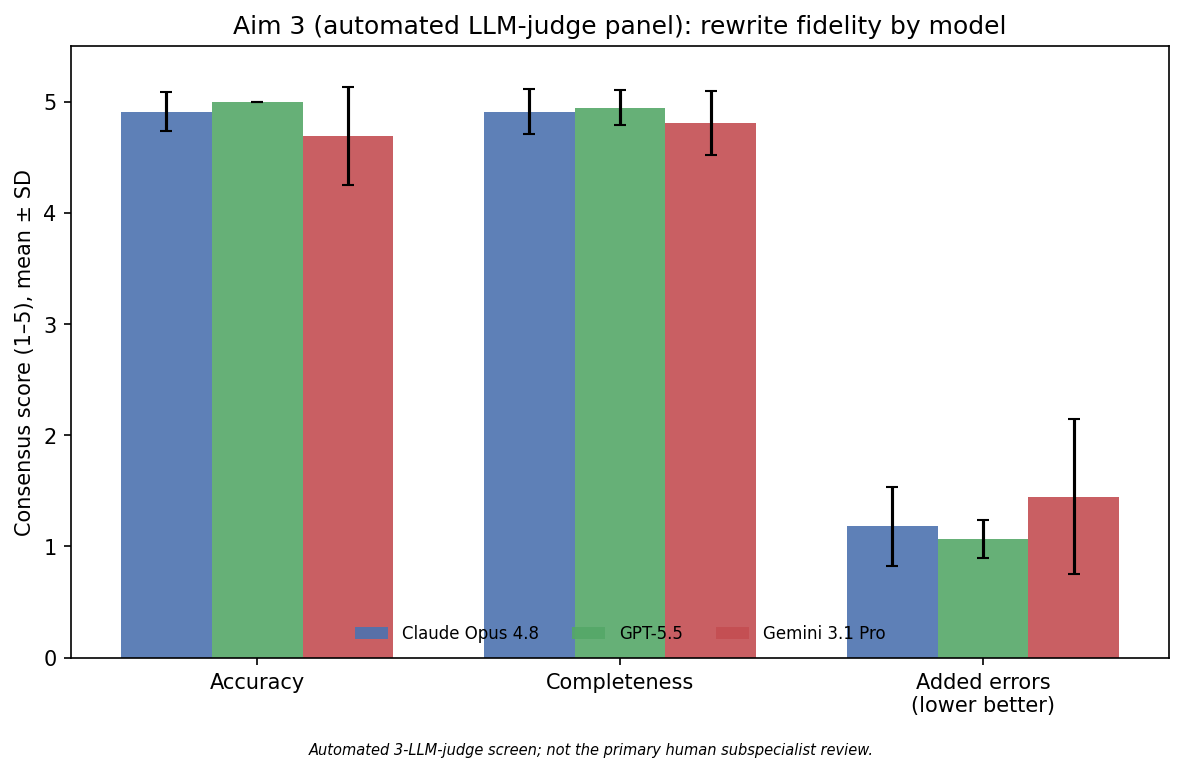
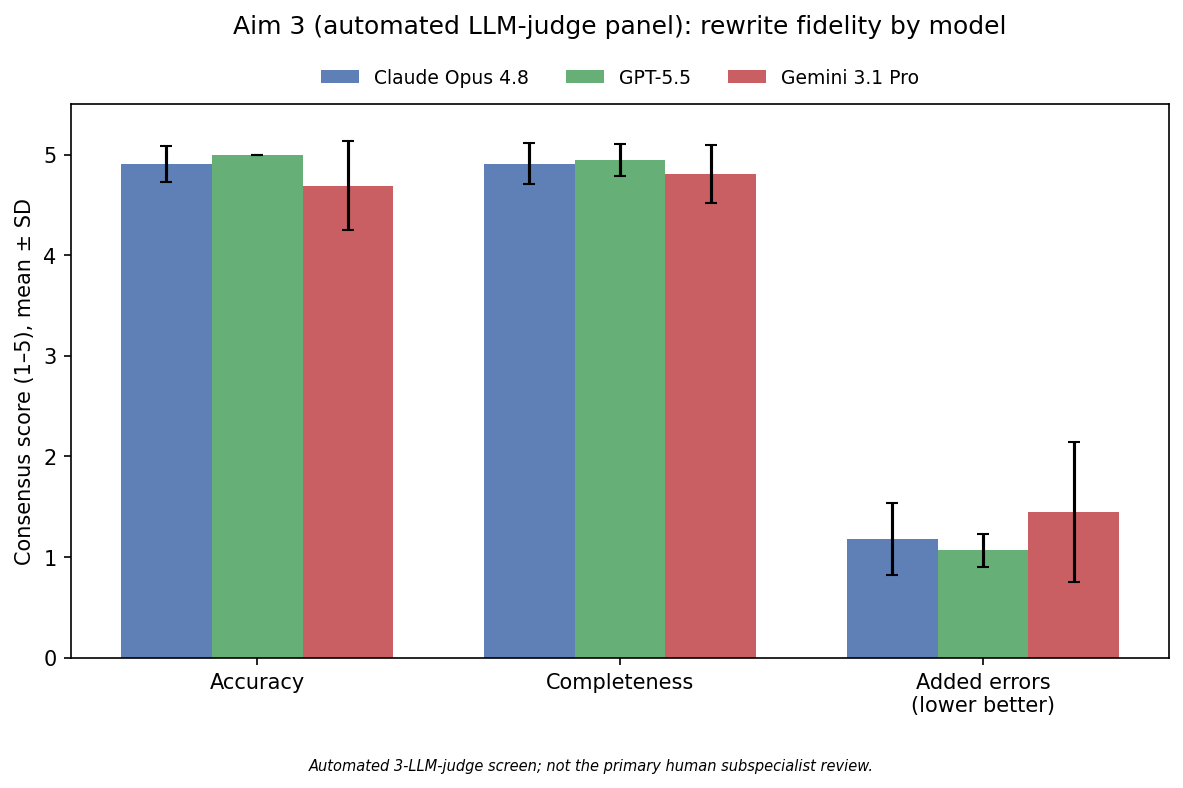
Aim 3 figures: fix legend overlap, add dual-axis trade-off plot
Move the by-model bar-chart legend above the plot area (it previously
sat over the Added-errors bars). Add aim3_llm_tradeoff_alt.png, a
dual-axis per-model summary (bars = reading-level reduction, diamonds =
consensus accuracy) that shows the readability-accuracy trade-off
directly. Reference the new figure in the automated-accuracy assessment.

diff --git a/scripts/11_aim3_llm_figures.py b/scripts/11_aim3_llm_figures.py
@@ -3,7 +3,8 @@
 
 Writes:
   reports/figures/aim3_llm_scores_by_model.png   grouped bars, 3 dimensions x 3 models
-  reports/figures/aim3_llm_tradeoff.png          reading-level reduction vs consensus accuracy
+  reports/figures/aim3_llm_tradeoff.png          reading-level reduction vs consensus accuracy (scatter)
+  reports/figures/aim3_llm_tradeoff_alt.png      same trade-off as a paired dual-axis summary
 """
 from __future__ import annotations
 
@@ -46,9 +47,11 @@ def main() -> int:
     ax.set_xticklabels([lab for _, lab in dims])
     ax.set_ylabel("Consensus score (1–5), mean ± SD")
     ax.set_ylim(0, 5.5)
-    ax.set_title("Aim 3 (automated LLM-judge panel): rewrite fidelity by model")
-    ax.legend(loc="lower center", ncol=3, frameon=False, fontsize=8)
-    ax.figure.text(0.5, -0.02, "Automated 3-LLM-judge screen; not the primary human subspecialist review.",
+    ax.set_title("Aim 3 (automated LLM-judge panel): rewrite fidelity by model", pad=34)
+    # Legend above the plot so it never sits over the bars.
+    ax.legend(loc="lower center", bbox_to_anchor=(0.5, 1.0), ncol=3,
+              frameon=False, fontsize=9)
+    ax.figure.text(0.5, -0.04, "Automated 3-LLM-judge screen; not the primary human subspecialist review.",
                    ha="center", fontsize=7, style="italic")
     fig.tight_layout()
     fig.savefig(FIGURES_DIR / "aim3_llm_scores_by_model.png", dpi=150, bbox_inches="tight")
@@ -78,7 +81,59 @@ def main() -> int:
     fig.savefig(FIGURES_DIR / "aim3_llm_tradeoff.png", dpi=150, bbox_inches="tight")
     plt.close(fig)
 
-    print("wrote reports/figures/aim3_llm_scores_by_model.png and aim3_llm_tradeoff.png")
+    # --- Figure C: same trade-off, different encoding ---------------------
+    # Paired dual-axis summary: per model, a bar for mean reading-level
+    # reduction (left axis) and a marker+line for mean consensus accuracy
+    # (right axis). Models are ordered by how aggressively they simplify, so
+    # the diverging readability-up / accuracy-down pattern reads at a glance.
+    summ = (d.groupby("model_id")
+              .agg(red_mean=("fkgl_reduction", "mean"),
+                   red_sd=("fkgl_reduction", "std"),
+                   acc_mean=("accuracy_1_5", "mean"),
+                   acc_sd=("accuracy_1_5", "std"))
+              .reindex(["openai", "claude", "gemini"]))  # least -> most simplified
+    order = list(summ.index)
+    xs = np.arange(len(order))
+
+    fig, ax1 = plt.subplots(figsize=(8, 5.5))
+    bars = ax1.bar(xs, summ["red_mean"], width=0.55,
+                   yerr=summ["red_sd"], capsize=4,
+                   color=[COLORS[m] for m in order], alpha=0.55,
+                   edgecolor="black", linewidth=0.6, zorder=2)
+    ax1.set_ylabel("Reading-level reduction\n(FKGL grade levels removed, mean ± SD)", fontsize=10)
+    ax1.set_ylim(0, 8)
+    ax1.set_xticks(xs)
+    ax1.set_xticklabels([LABELS[m] for m in order])
+    for b, v in zip(bars, summ["red_mean"]):
+        ax1.text(b.get_x() + b.get_width() / 2, 0.25, f"{v:.1f} grades",
+                 ha="center", va="bottom", fontsize=9, fontweight="bold",
+                 color="#222222")
+
+    ax2 = ax1.twinx()
+    ax2.errorbar(xs, summ["acc_mean"], yerr=summ["acc_sd"], color="black",
+                 marker="D", markersize=9, markerfacecolor="white",
+                 markeredgewidth=1.6, linewidth=1.8, capsize=4, zorder=5)
+    ax2.set_ylabel("Consensus accuracy (1–5), mean ± SD", fontsize=10)
+    ax2.set_ylim(4.0, 5.15)
+    for xi, v in zip(xs, summ["acc_mean"]):
+        ax2.annotate(f"{v:.2f}", (xi, v), textcoords="offset points",
+                     xytext=(10, 6), fontsize=9, fontweight="bold")
+
+    ax1.set_title("The readability–accuracy trade-off across models\n"
+                  "(bars: simplification achieved · diamonds: medical-accuracy fidelity)",
+                  fontsize=12)
+    ax1.set_axisbelow(True)
+    ax1.grid(axis="y", alpha=0.2)
+    fig.text(0.5, -0.03,
+             "More simplification (left→right) tracks lower accuracy fidelity. "
+             "Automated 3-LLM-judge screen; pending blinded subspecialist review.",
+             ha="center", fontsize=7, style="italic")
+    fig.tight_layout()
+    fig.savefig(FIGURES_DIR / "aim3_llm_tradeoff_alt.png", dpi=150, bbox_inches="tight")
+    plt.close(fig)
+
+    print("wrote reports/figures/aim3_llm_scores_by_model.png, "
+          "aim3_llm_tradeoff.png and aim3_llm_tradeoff_alt.png")
     return 0
 
 

diff --git a/docs/aim3_automated_accuracy_assessment.md b/docs/aim3_automated_accuracy_assessment.md
@@ -19,7 +19,7 @@ Consensus scores (mean across the 3 judges), per model:
 | Claude Opus 4.8 | −5.52 | 4.91 | 4.91 | 1.18 |
 | Gemini 3.1 Pro | −5.74 (largest) | 4.69 | 4.81 | 1.45 (worst) |
 
-The ordering is the **inverse** of the Aim 2 reading-level ordering: the model that simplified most aggressively (Gemini) scored lowest on accuracy and added the most un-sourced content, while the most conservative simplifier (GPT-5.5) was the most faithful. **Claude Opus 4.8 sits at the favorable corner** — a near-largest reading-level reduction with fidelity essentially tied with the most conservative model. Across-model differences were significant for accuracy (Friedman χ² = 21.1, p = 2.6 × 10⁻⁵; n = 25 pages with all three rewrites) and non-significant for completeness (χ² = 5.57, p = .062) and added errors (χ² = 5.02, p = .081). See `reports/figures/aim3_llm_tradeoff.png` and `aim3_llm_scores_by_model.png`.
+The ordering is the **inverse** of the Aim 2 reading-level ordering: the model that simplified most aggressively (Gemini) scored lowest on accuracy and added the most un-sourced content, while the most conservative simplifier (GPT-5.5) was the most faithful. **Claude Opus 4.8 sits at the favorable corner** — a near-largest reading-level reduction with fidelity essentially tied with the most conservative model. Across-model differences were significant for accuracy (Friedman χ² = 21.1, p = 2.6 × 10⁻⁵; n = 25 pages with all three rewrites) and non-significant for completeness (χ² = 5.57, p = .062) and added errors (χ² = 5.02, p = .081). See `reports/figures/aim3_llm_tradeoff.png` (per-page scatter), `aim3_llm_tradeoff_alt.png` (dual-axis model-level summary: bars = simplification achieved, diamonds = accuracy fidelity), and `aim3_llm_scores_by_model.png`.
 
 ## 3. Most rewrites were faithful (ceiling effect)
 
@@ -74,4 +74,4 @@ Per-model Spearman between the magnitude of reading-level reduction (ΔFKGL) and
 - `data/scores/accuracy_llm_raw.csv` — 231 rows (page × model × judge), scores + notes + flagged claims.
 - `data/scores/accuracy_llm.csv` — 77 consensus rows (mean across judges).
 - `reports/aim3_llm_descriptives.csv`, `aim3_llm_model_comparison.csv`, `aim3_llm_interjudge.csv`, `aim3_llm_self_preference.csv`, `aim3_llm_tradeoff.csv`.
-- `reports/figures/aim3_llm_scores_by_model.png`, `aim3_llm_tradeoff.png`.
+- `reports/figures/aim3_llm_scores_by_model.png`, `aim3_llm_tradeoff.png`, `aim3_llm_tradeoff_alt.png`.